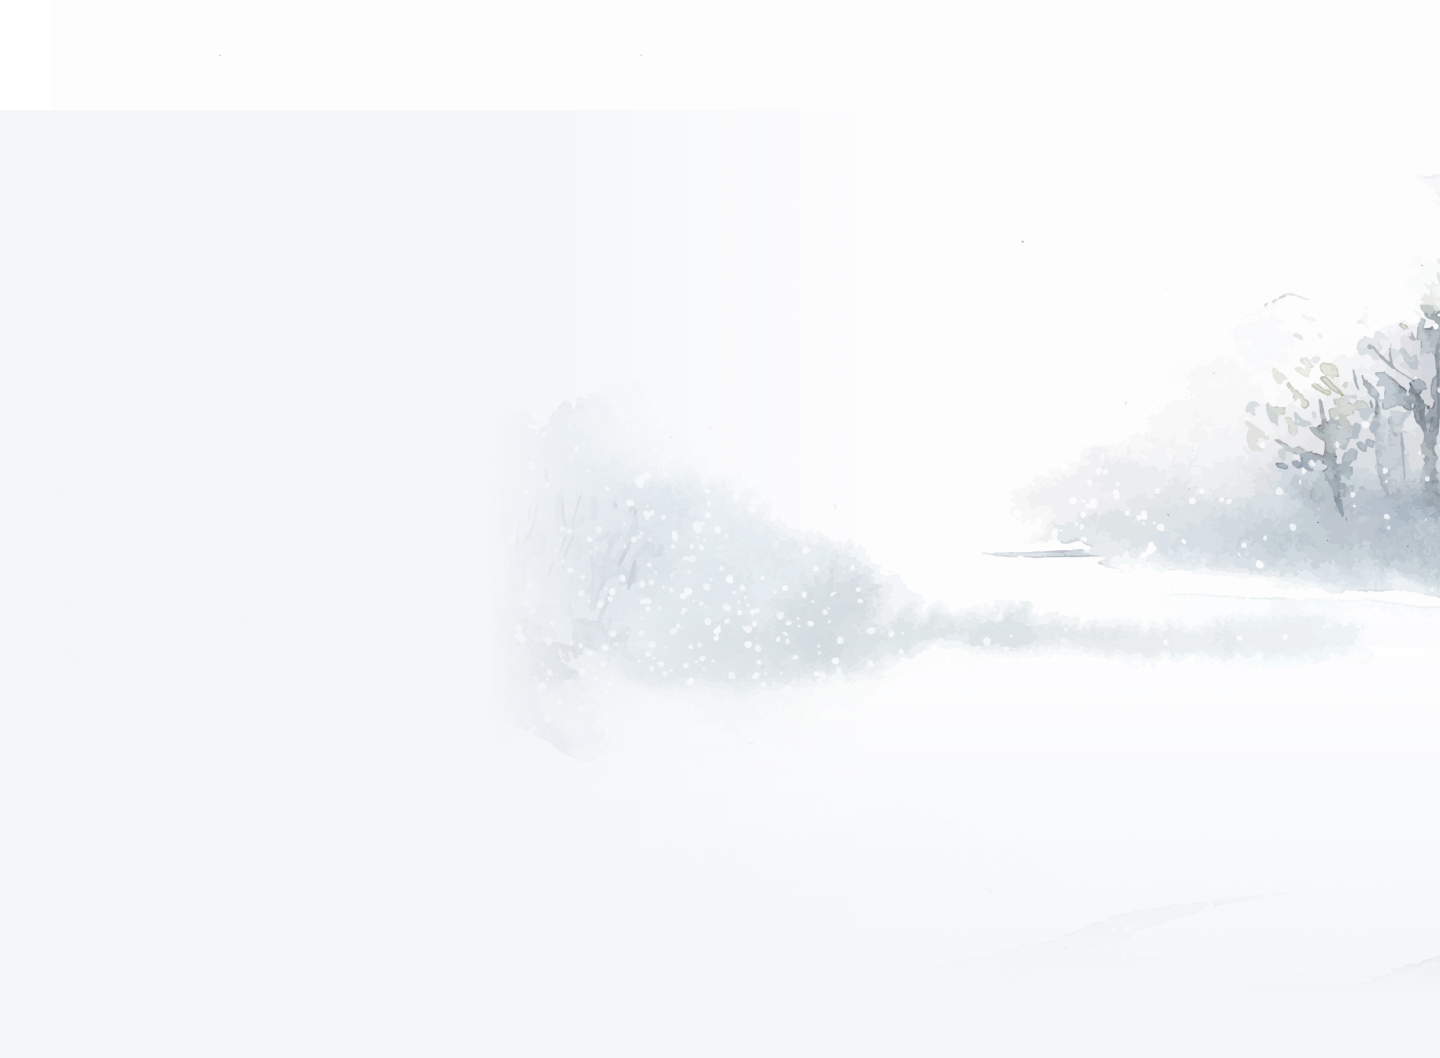
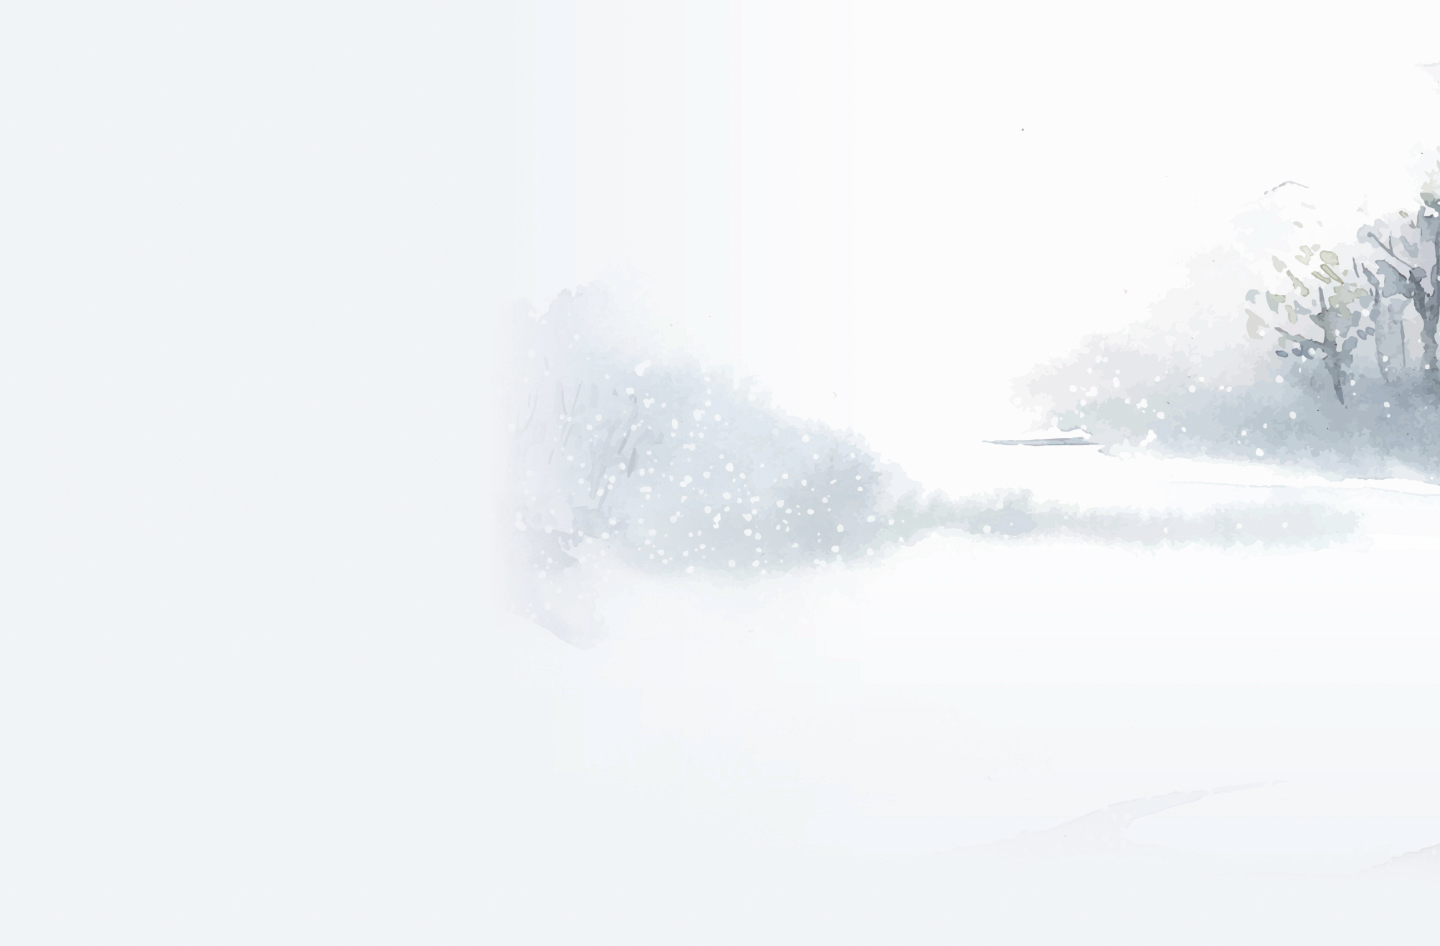
Clean up public/background

Changed region(s): [[0.4375, 0.1839, 1.0, 0.6438]]

diff --git a/components/sections/PfxTokenObjectives.tsx b/components/sections/PfxTokenObjectives.tsx
@@ -10,7 +10,7 @@ export function PfxTokenObjectives({ className }: PfxTokenObjectivesProps) {
   return (
     <div
       className="w-screen bg-cover bg-no-repeat flex flex-col justify-center items-center bg-right"
-      style={{ backgroundImage: 'url("/background/forest-22.jpg")' }}
+      style={{ backgroundImage: 'url("/background/forest-2.jpg")' }}
     >
       <div className={classNames('container', className)}>
         <div className="grid grid-cols-2 gap-4">
